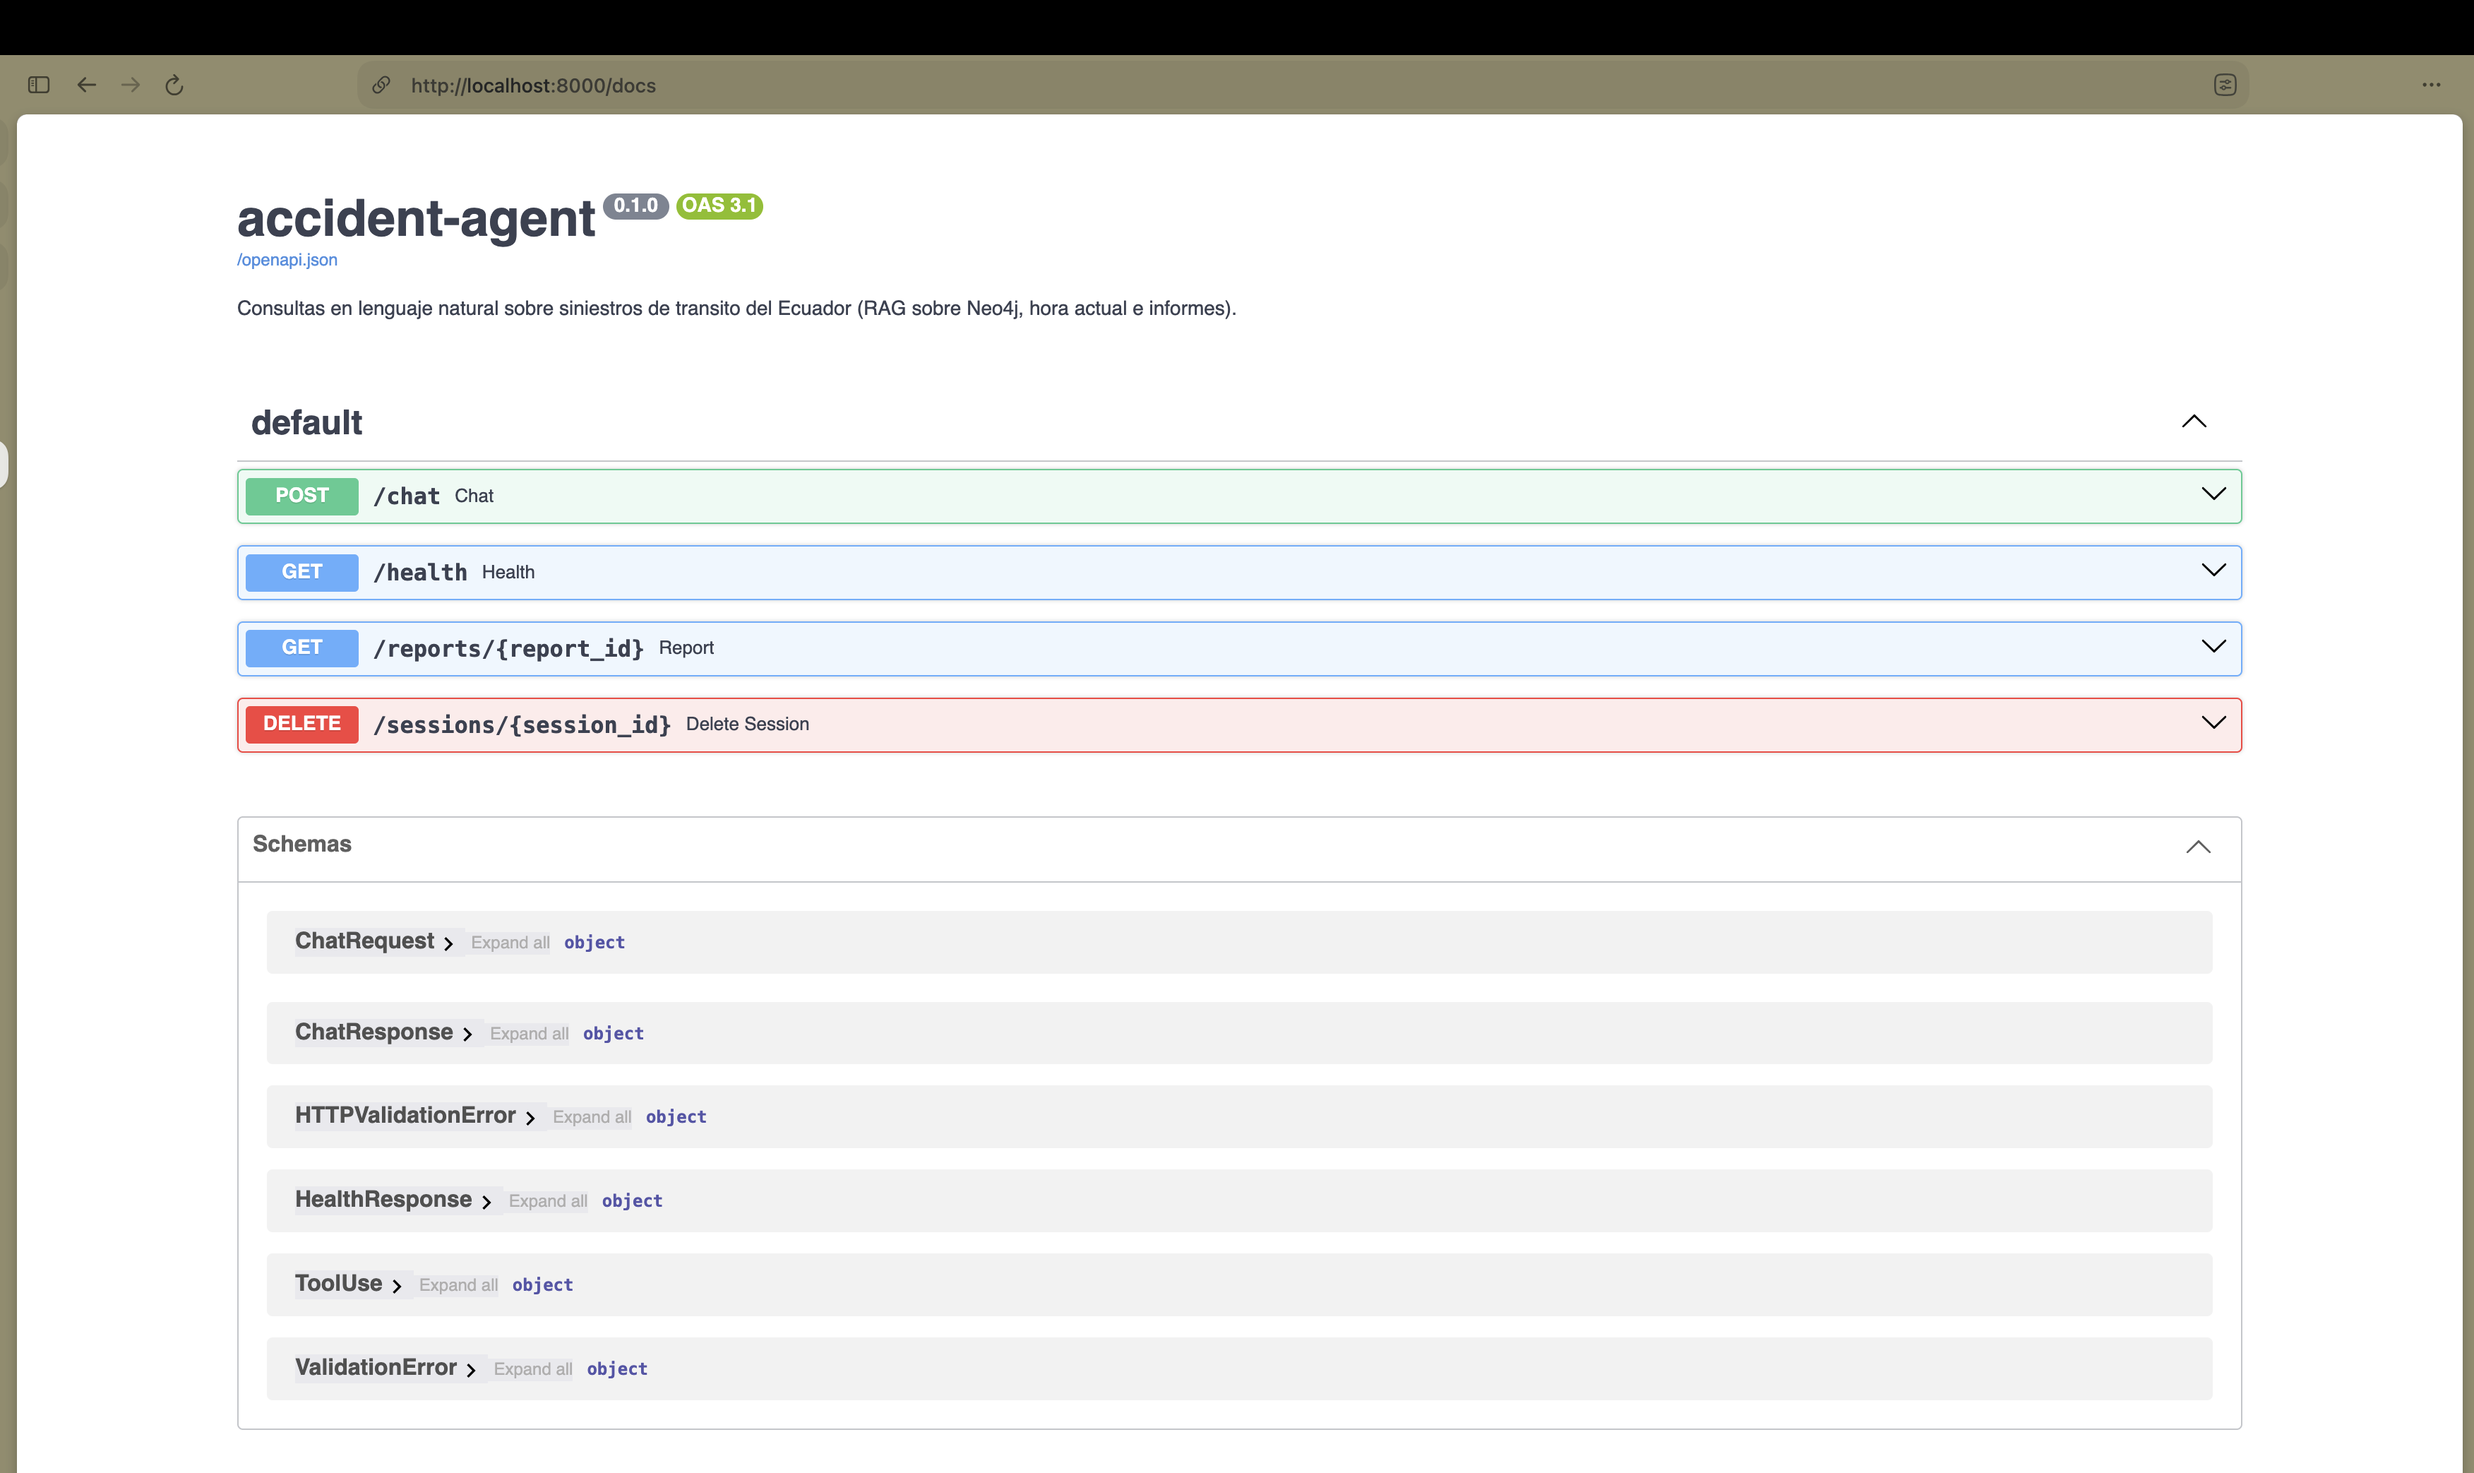
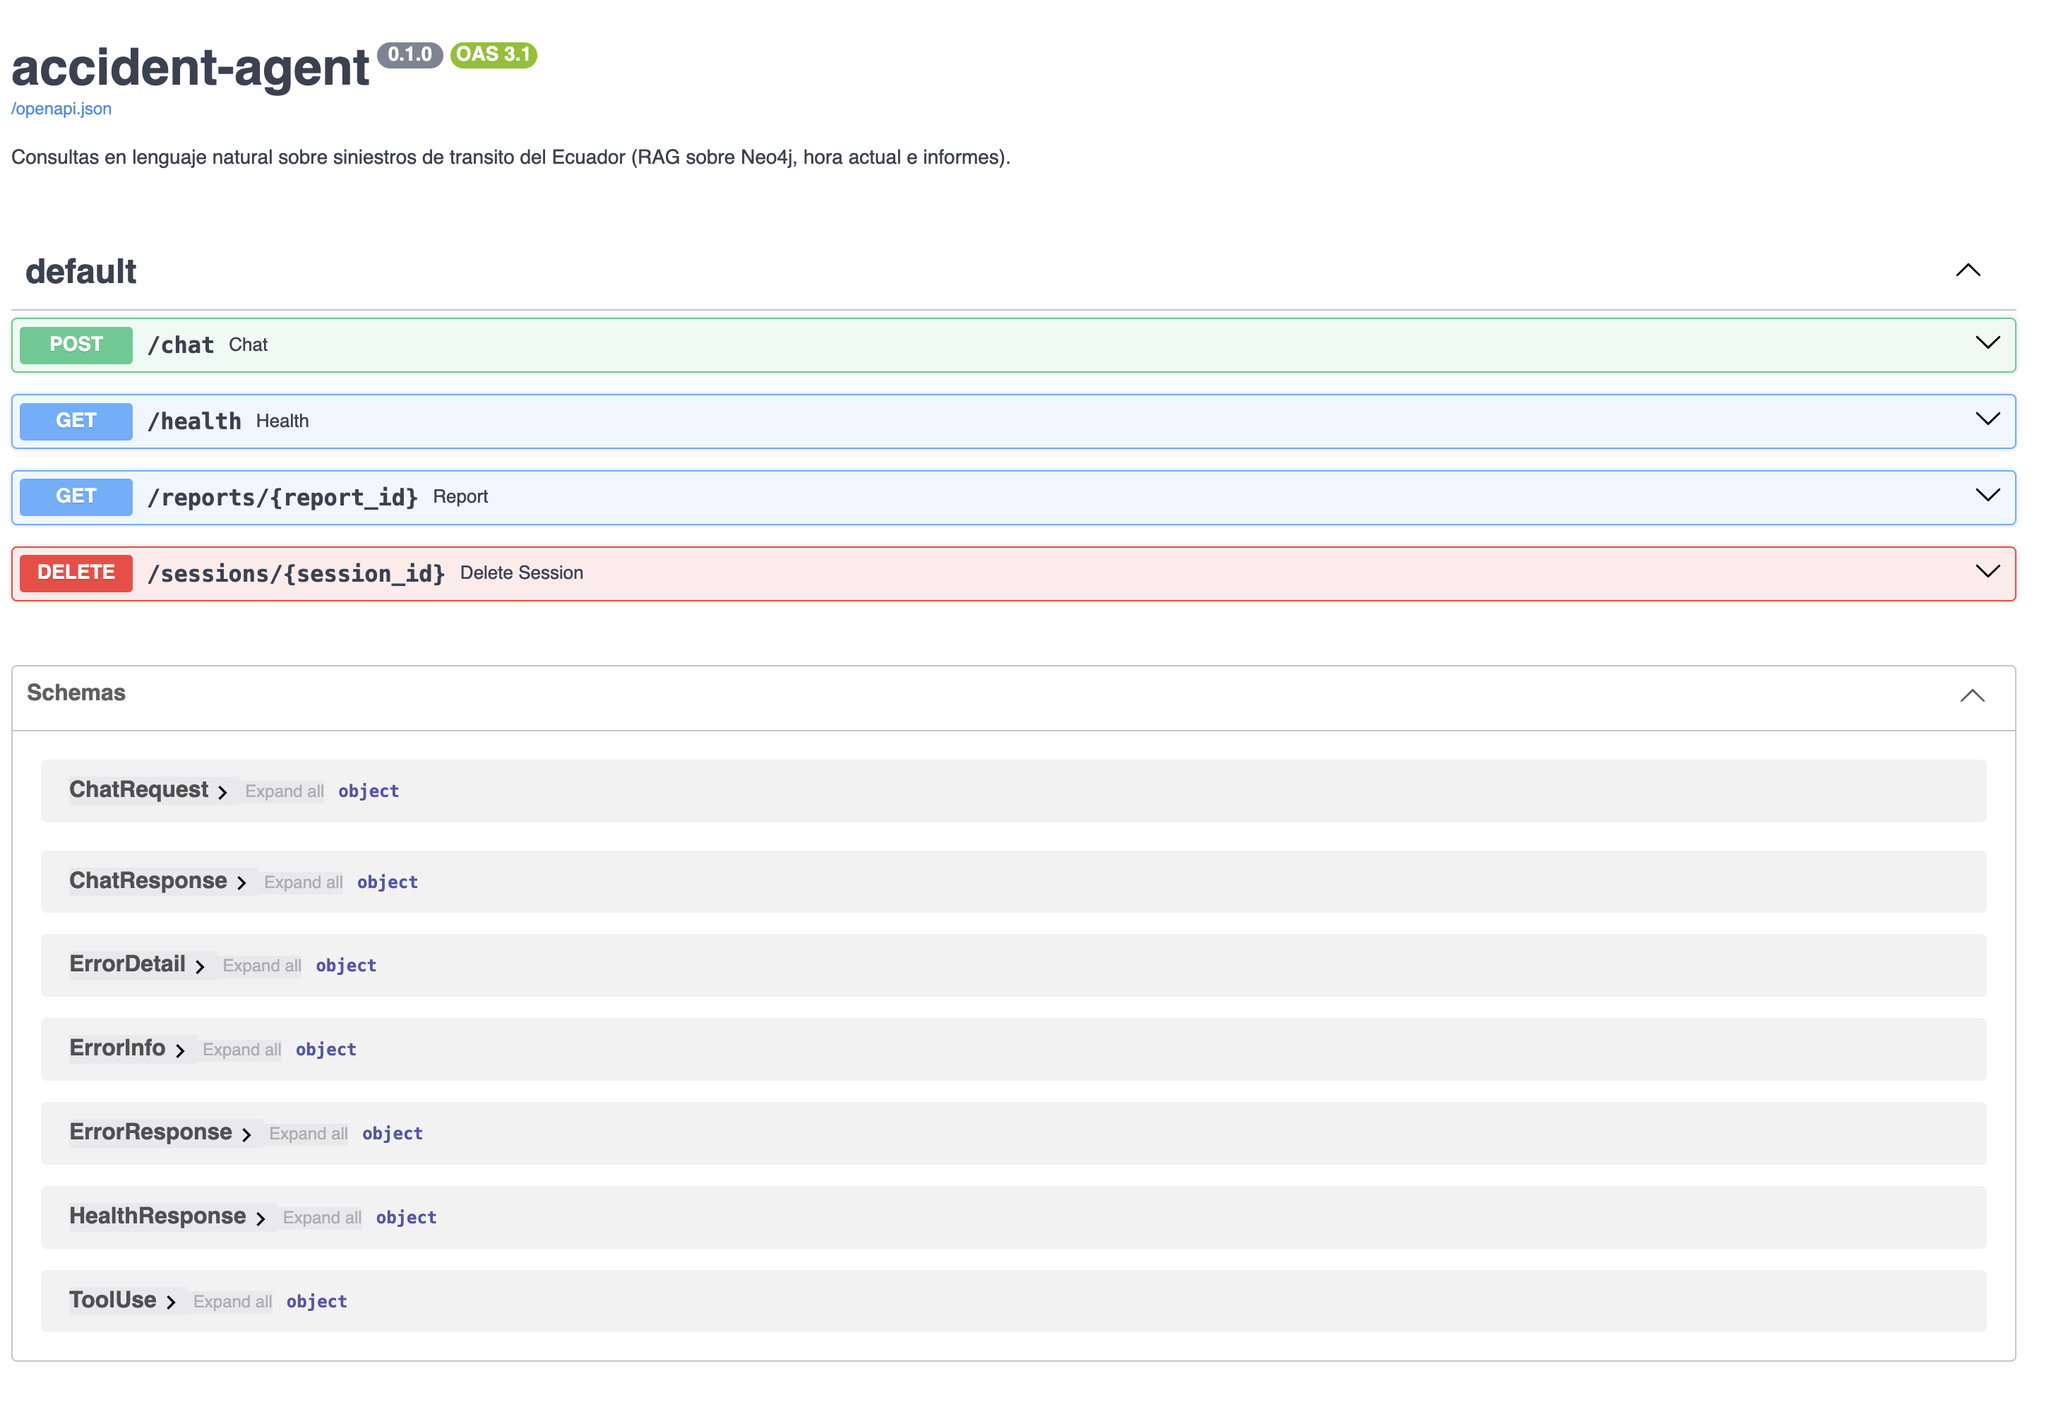
fix(etapa-4): formato de error de la API documentado en el OpenAPI
- Los errores 404, 422 y 500 usan siempre {"error": {type, message, details}}
  y cada ruta declara el modelo ErrorResponse; el OpenAPI ya no publica el
  formato por defecto de FastAPI, que la API no devolvia.
- Los 404 (informe, sesion o ruta inexistente) usan el mismo formato.
- Captura de Swagger tomada de nuevo; nota sobre las dos ejecuciones de la CLI.

Changed region(s): [[0.0, 0.0, 1.0, 1.0]]

diff --git a/src/accident_agent/interfaces/api.py b/src/accident_agent/interfaces/api.py
@@ -9,12 +9,13 @@ from collections.abc import AsyncIterator, Callable
 from contextlib import asynccontextmanager
 from importlib.metadata import version
 from pathlib import Path
-from typing import Final, Literal
+from typing import Any, Final, Literal
 
 from fastapi import FastAPI, HTTPException, Request
 from fastapi.exceptions import RequestValidationError
 from fastapi.responses import JSONResponse, PlainTextResponse, Response
 from pydantic import BaseModel, Field, field_validator
+from starlette.exceptions import HTTPException as StarletteHTTPException
 
 from accident_agent.bootstrap import Container, build_container
 from accident_agent.core.orchestrator import StopReason, ToolUse
@@ -52,6 +53,38 @@ class HealthResponse(BaseModel):
     status: Literal["ok", "degraded"]
     neo4j: Literal["ok", "unavailable"]
     llm_configured: bool
+
+
+class ErrorDetail(BaseModel):
+    field: str
+    message: str
+
+
+class ErrorInfo(BaseModel):
+    type: str
+    message: str
+    details: list[ErrorDetail] | None = None
+
+
+class ErrorResponse(BaseModel):
+    """Formato de todos los errores de la API (422, 404 y 500)."""
+
+    error: ErrorInfo
+
+
+# Se declaran en cada ruta para que el OpenAPI publique este formato y no el de FastAPI
+# ({"detail": [...]}), que la API no devuelve.
+Responses = dict[int | str, dict[str, Any]]
+
+_INVALID: Final[Responses] = {422: {"model": ErrorResponse, "description": "Solicitud no valida"}}
+_FAILED: Final[Responses] = {500: {"model": ErrorResponse, "description": "Error interno"}}
+_NOT_FOUND: Final[Responses] = {404: {"model": ErrorResponse, "description": "No encontrado"}}
+
+
+def _json_error(description: str) -> dict[str, Any]:
+    # En rutas que responden texto, FastAPI publicaria el modelo bajo text/plain.
+    schema = {"$ref": "#/components/schemas/ErrorResponse"}
+    return {"description": description, "content": {"application/json": {"schema": schema}}}
 
 
 def _error(status: int, error_type: str, message: str, **extra: object) -> JSONResponse:
@@ -95,12 +128,19 @@ def create_app(container_factory: Callable[[], Container] | None = None) -> Fast
         ]
         return _error(422, "validation", "solicitud no valida", details=details)
 
+    @app.exception_handler(StarletteHTTPException)
+    async def http_error(request: Request, exc: StarletteHTTPException) -> JSONResponse:
+        error_type = "not_found" if exc.status_code == 404 else "http"
+        # "Not Found" es el detalle por defecto de Starlette para rutas inexistentes.
+        message = "recurso no encontrado" if exc.detail == "Not Found" else str(exc.detail)
+        return _error(exc.status_code, error_type, message)
+
     @app.exception_handler(Exception)
     async def unexpected_error(request: Request, exc: Exception) -> JSONResponse:
         container(request).logger.warning("api_error", error=type(exc).__name__)
         return _error(500, "internal", "error interno; intenta de nuevo")
 
-    @app.post("/chat")
+    @app.post("/chat", responses={**_INVALID, **_FAILED})
     def chat(body: ChatRequest, request: Request) -> ChatResponse:
         session_id = body.session_id or uuid.uuid4().hex
         response = container(request).orchestrator.handle(session_id, body.message)
@@ -112,7 +152,7 @@ def create_app(container_factory: Callable[[], Container] | None = None) -> Fast
             stop_reason=response.stop_reason,
         )
 
-    @app.get("/health")
+    @app.get("/health", responses=_FAILED)
     def health(request: Request) -> HealthResponse:
         current = container(request)
         try:
@@ -126,7 +166,11 @@ def create_app(container_factory: Callable[[], Container] | None = None) -> Fast
             llm_configured=bool(current.settings.openrouter_api_key.get_secret_value()),
         )
 
-    @app.get("/reports/{report_id}", response_class=PlainTextResponse)
+    @app.get(
+        "/reports/{report_id}",
+        response_class=PlainTextResponse,
+        responses={404: _json_error("No encontrado"), 422: _json_error("Solicitud no valida")},
+    )
     def report(report_id: str, request: Request) -> PlainTextResponse:
         if not REPORT_ID.match(report_id):
             raise HTTPException(status_code=404, detail="informe no encontrado")
@@ -135,7 +179,7 @@ def create_app(container_factory: Callable[[], Container] | None = None) -> Fast
             raise HTTPException(status_code=404, detail="informe no encontrado")
         return PlainTextResponse(path.read_text(encoding="utf-8"), media_type="text/markdown")
 
-    @app.delete("/sessions/{session_id}", status_code=204)
+    @app.delete("/sessions/{session_id}", status_code=204, responses={**_NOT_FOUND, **_INVALID})
     def delete_session(session_id: str, request: Request) -> Response:
         if not re.match(SESSION_ID_PATTERN, session_id) or not container(request).memory.reset(
             session_id

diff --git a/tests/unit/test_api.py b/tests/unit/test_api.py
@@ -144,3 +144,33 @@ def test_openapi_docs(make_client: Any) -> None:
     assert client.get("/docs").status_code == 200
     paths = client.get("/openapi.json").json()["paths"]
     assert {"/chat", "/health", "/reports/{report_id}", "/sessions/{session_id}"} <= set(paths)
+
+
+def test_openapi_documents_the_real_error_format(make_client: Any) -> None:
+    client, _ = make_client([])
+    spec = client.get("/openapi.json").json()
+    schemas = spec["components"]["schemas"]
+    # El formato por defecto de FastAPI ({"detail": [...]}) no es el que devuelve la API.
+    assert "HTTPValidationError" not in schemas
+    assert "ValidationError" not in schemas
+    assert "ErrorResponse" in schemas
+    paths = spec["paths"]
+    for path, method, status in [
+        ("/chat", "post", "422"),
+        ("/chat", "post", "500"),
+        ("/reports/{report_id}", "get", "404"),
+        ("/reports/{report_id}", "get", "422"),
+        ("/sessions/{session_id}", "delete", "404"),
+    ]:
+        ref = paths[path][method]["responses"][status]["content"]["application/json"]["schema"]
+        assert ref["$ref"].endswith("/ErrorResponse"), (path, status)
+
+
+def test_not_found_uses_the_same_error_format(make_client: Any) -> None:
+    client, _ = make_client([])
+    report = client.get("/reports/RPT-20990101-000000-abcdef")
+    assert report.status_code == 404
+    assert report.json() == {"error": {"type": "not_found", "message": "informe no encontrado"}}
+    session = client.delete("/sessions/inexistente")
+    assert session.json() == {"error": {"type": "not_found", "message": "sesion no encontrada"}}
+    assert client.get("/no-existe").json()["error"]["type"] == "not_found"

diff --git a/docs/evidencias/etapa-4_notas.md b/docs/evidencias/etapa-4_notas.md
@@ -79,6 +79,7 @@ Los resultados de herramientas llegan al modelo como `<resultado_herramienta>JSO
 | Las pruebas de Langfuse exportaban vacio a partir de la segunda | El SDK reutiliza un cliente por clave publica; cada prueba usa una clave distinta |
 | El endpoint de lectura `/api/public/traces` de Langfuse respondio 410 (deprecado) al verificar | Se uso `GET /api/public/v2/observations`. La aplicacion no lo usa: solo envia trazas por OpenTelemetry |
 | Sin `OPENROUTER_MODELS` el proveedor no arrancaba | Lista por defecto con los modelos de la tarea 0.3 |
+| El OpenAPI (Swagger) publicaba el formato de error por defecto de FastAPI (`HTTPValidationError`, `{"detail": [...]}`), distinto del que devuelve la API; los 404 tambien usaban `{"detail": ...}` | Detectado al revisar la captura de Swagger. Modelo `ErrorResponse` declarado en las respuestas 404, 422 y 500 de cada ruta, y manejador para que los 404 usen `{"error": {...}}`. Dos pruebas nuevas; captura de Swagger tomada de nuevo |
 | Una prueba de error dentro de un 200 esperaba pasar al siguiente modelo | Se separo: respuesta mal formada (siguiente modelo) frente a error transitorio del proveedor (reintento) |
 
 ## Archivos y modulos clave
@@ -100,7 +101,7 @@ Los resultados de herramientas llegan al modelo como `<resultado_herramienta>JSO
 | `docs/evidencias/func_4.11_api_chat.json` | `POST /chat` con seguimiento en la misma sesion | Funcional 4.7 |
 | `docs/evidencias/func_4.11_cli_verbose.txt` | Salida real de `ask --verbose` | Funcional 4.6 |
 | `docs/evidencias/4.11_langfuse_traza.png` | Detalle de la traza del escenario 2 en Langfuse Cloud (latencias de las dos llamadas al LLM) | Tecnica 5.12 |
-| `docs/evidencias/func_4.11_cli_verbose.png` | Captura de la CLI con `--verbose` | Funcional 4.6 |
+| `docs/evidencias/func_4.11_cli_verbose.png` | Captura de la CLI con `--verbose`. Es otra ejecucion de la misma pregunta que el `.txt`: trace `8380c646...`, el modelo llamo `get_current_time` y `search_accidents` (3 iteraciones); el `.txt` (trace `ca8ccd70...`) uso solo `search_accidents` (2 iteraciones). Las cifras son las mismas: 4 siniestros, 3 fallecidos, 3 heridos, USD 26 400 | Funcional 4.6 |
 | `docs/evidencias/func_4.11_swagger.png` | Captura de Swagger en `/docs` | Funcional 4.7 |
 
 Todas revisadas contra la nomina completa y los patrones de claves: 0 coincidencias.
